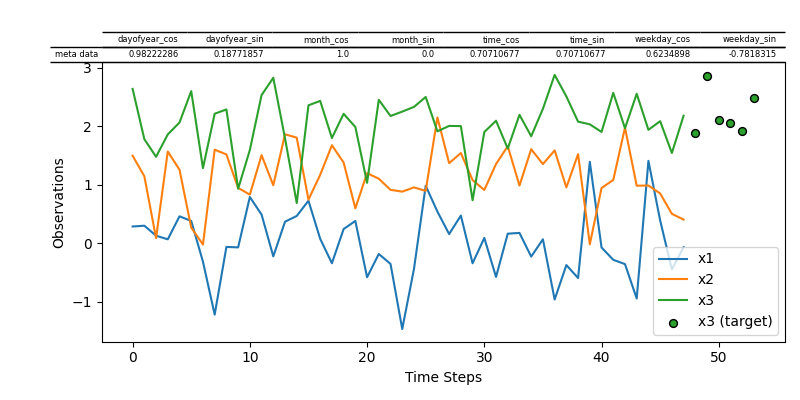
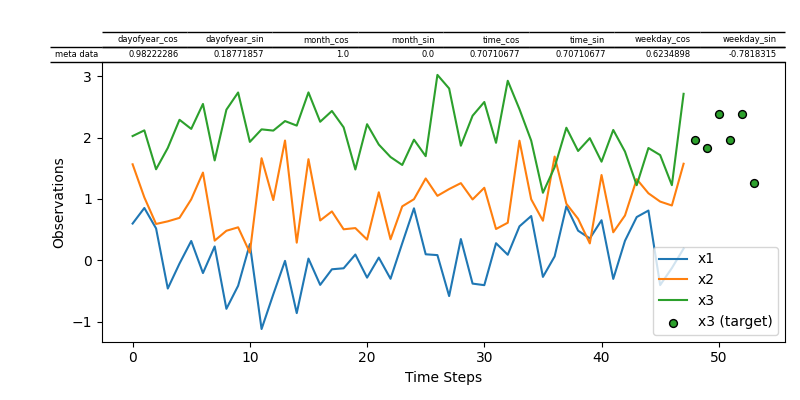
adds contribution guidelines

diff --git a/README.md b/README.md
@@ -6,40 +6,42 @@
 [![img](https://img.shields.io/badge/-LinkedIn-black.svg?style=flat-square&logo=linkedin&colorB=555)](https://linkedin.com/in/MArpogaus)
 
 
-# Table of Contents
+# TensorFlow time-series Dataset
 
 1.  [About The Project](#about-the-project)
 2.  [Usage](#usage)
-    1.  [Example Data](#org172632d)
-    2.  [Single-Step Prediction](#org660c3b2)
-    3.  [Multi-Step Prediction](#org487b8c3)
-    4.  [Preprocessing: Add Metadata features](#orgae97c2b)
-3.  [Contributing](#contributing)
-4.  [License](#license)
-5.  [Contact](#contact)
-6.  [Acknowledgments](#acknowledgments)
+    1.  [Example Data](#org705c8ce)
+    2.  [Single-Step Prediction](#orge605148)
+    3.  [Multi-Step Prediction](#org46070f1)
+    4.  [Preprocessing: Add Metadata features](#org6f4b42f)
+3.  [License](#license)
+4.  [Contact](#contact)
+5.  [Acknowledgments](#acknowledgments)
 
 
 <a id="about-the-project"></a>
 
-# About The Project
+## About The Project
 
-This python packages should help you to create TensorFlow datasets for time-series data.
+This python package should help you to create TensorFlow datasets for time-series data.
 
 
 <a id="usage"></a>
 
-# Usage
+## Usage
 
 
-<a id="org172632d"></a>
+<a id="org705c8ce"></a>
 
-## Example Data
+### Example Data
 
 Suppose you have a dataset in the following form:
 
     import numpy as np
     import pandas as pd
+    
+    # make things determeinisteic
+    np.random.seed(1)
     
     columns=['x1', 'x2', 'x3']
     periods=48 * 14
@@ -62,16 +64,16 @@ Suppose you have a dataset in the following form:
     test_df.head()
 
                                x1        x2        x3
-    1992-01-01 00:00:00 -0.282495  0.824307  1.986228
-    1992-01-01 00:30:00  0.056311  1.288896  1.875381
-    1992-01-01 01:00:00 -0.272162  0.662390  1.956936
-    1992-01-01 01:30:00 -0.075224  0.765020  1.940887
-    1992-01-01 02:00:00  0.343781  0.652433  1.864976
+    1992-01-01 00:00:00  0.812173  1.205133  1.578044
+    1992-01-01 00:30:00 -0.305878  1.429935  1.413295
+    1992-01-01 01:00:00 -0.264086  0.550658  1.602187
+    1992-01-01 01:30:00 -0.536484  1.159828  1.644974
+    1992-01-01 02:00:00  0.432704  1.159077  2.005718
 
 
-<a id="org660c3b2"></a>
+<a id="orge605148"></a>
 
-## Single-Step Prediction
+### Single-Step Prediction
 
 The factory class `WindowedTimeSeriesDatasetFactory` is used to create a TensorFlow dataset from pandas dataframes, or other data sources as we will see later.
 We will use it now to create a dataset with `48` historic time-steps as the input to predict a single time-step in the future.
@@ -109,11 +111,11 @@ We can plot the result with the utility function `plot_path`:
 ![img](.images/example1.png)
 
 
-<a id="org487b8c3"></a>
+<a id="org46070f1"></a>
 
-## Multi-Step Prediction
+### Multi-Step Prediction
 
-Lets now increase the change the prediction size to `6` half-hour time-steps.
+Lets now increase the prediction size to `6` half-hour time-steps.
 
     factory_kwds.update(dict(
         prediction_size=6
@@ -141,9 +143,9 @@ Again, lets plot the results to see what changed:
 ![img](.images/example2.png)
 
 
-<a id="orgae97c2b"></a>
+<a id="org6f4b42f"></a>
 
-## Preprocessing: Add Metadata features
+### Preprocessing: Add Metadata features
 
 Preprocessors can be used to transform the data before it is fed into the model.
 A Preprocessor can be any python callable.
@@ -188,38 +190,16 @@ Again, lets plot the results to see what changed:
 ![img](.images/example3.png)
 
 
-<a id="contributing"></a>
-
-# Contributing
-
-Contributions are what make the open source community such an amazing
-place to learn, inspire, and create. Any contributions you make are
-**greatly appreciated**.
-
-If you have a suggestion that would make this better, please fork the
-repo and create a pull request. You can also simply open an issue with
-the tag &ldquo;enhancement&rdquo;. Don&rsquo;t forget to give the project a star! Thanks
-again!
-
-1.  Fork the Project
-2.  Create your Feature Branch
-3.  Commit your Changes
-4.  Push to the Branch
-5.  Open a Pull Request
-
-Any contributions are **greatly appreciated**.
-
-
 <a id="license"></a>
 
-# License
+## License
 
 Distributed under the [Apache License 2.0](LICENSE)
 
 
 <a id="contact"></a>
 
-# Contact
+## Contact
 
 [Marcel Arpogaus](https://github.com/marpogaus) - [marcel.arpogaus@gmail.com](mailto:marcel.arpogaus@gmail.com)
 
@@ -229,7 +209,7 @@ Project Link:
 
 <a id="acknowledgments"></a>
 
-# Acknowledgments
+## Acknowledgments
 
 Parts of this work have been funded by the Federal Ministry for the Environment, Nature Conservation and Nuclear Safety due to a decision of the German Federal Parliament (AI4Grids: 67KI2012A).
 

diff --git a/CONTRIBUTING.md b/CONTRIBUTING.md
@@ -1,0 +1,17 @@
+# Contributing
+
+Contributions are what make the open source community such an amazing
+place to learn, inspire, and create.
+Thank you for considering a contribution to this project.
+Any contributions you make are _greatly appreciated_.
+
+If you have a suggestion that would make this better, please fork the repo and create a pull request.
+You can also simply open an issue with the tag "enhancement".
+
+1. Fork the project
+2. Create a feature branch for your changes
+3. Commit your changes
+4. Push to the branch
+5. Open a pull request
+
+Thanks again for considering contribution.
